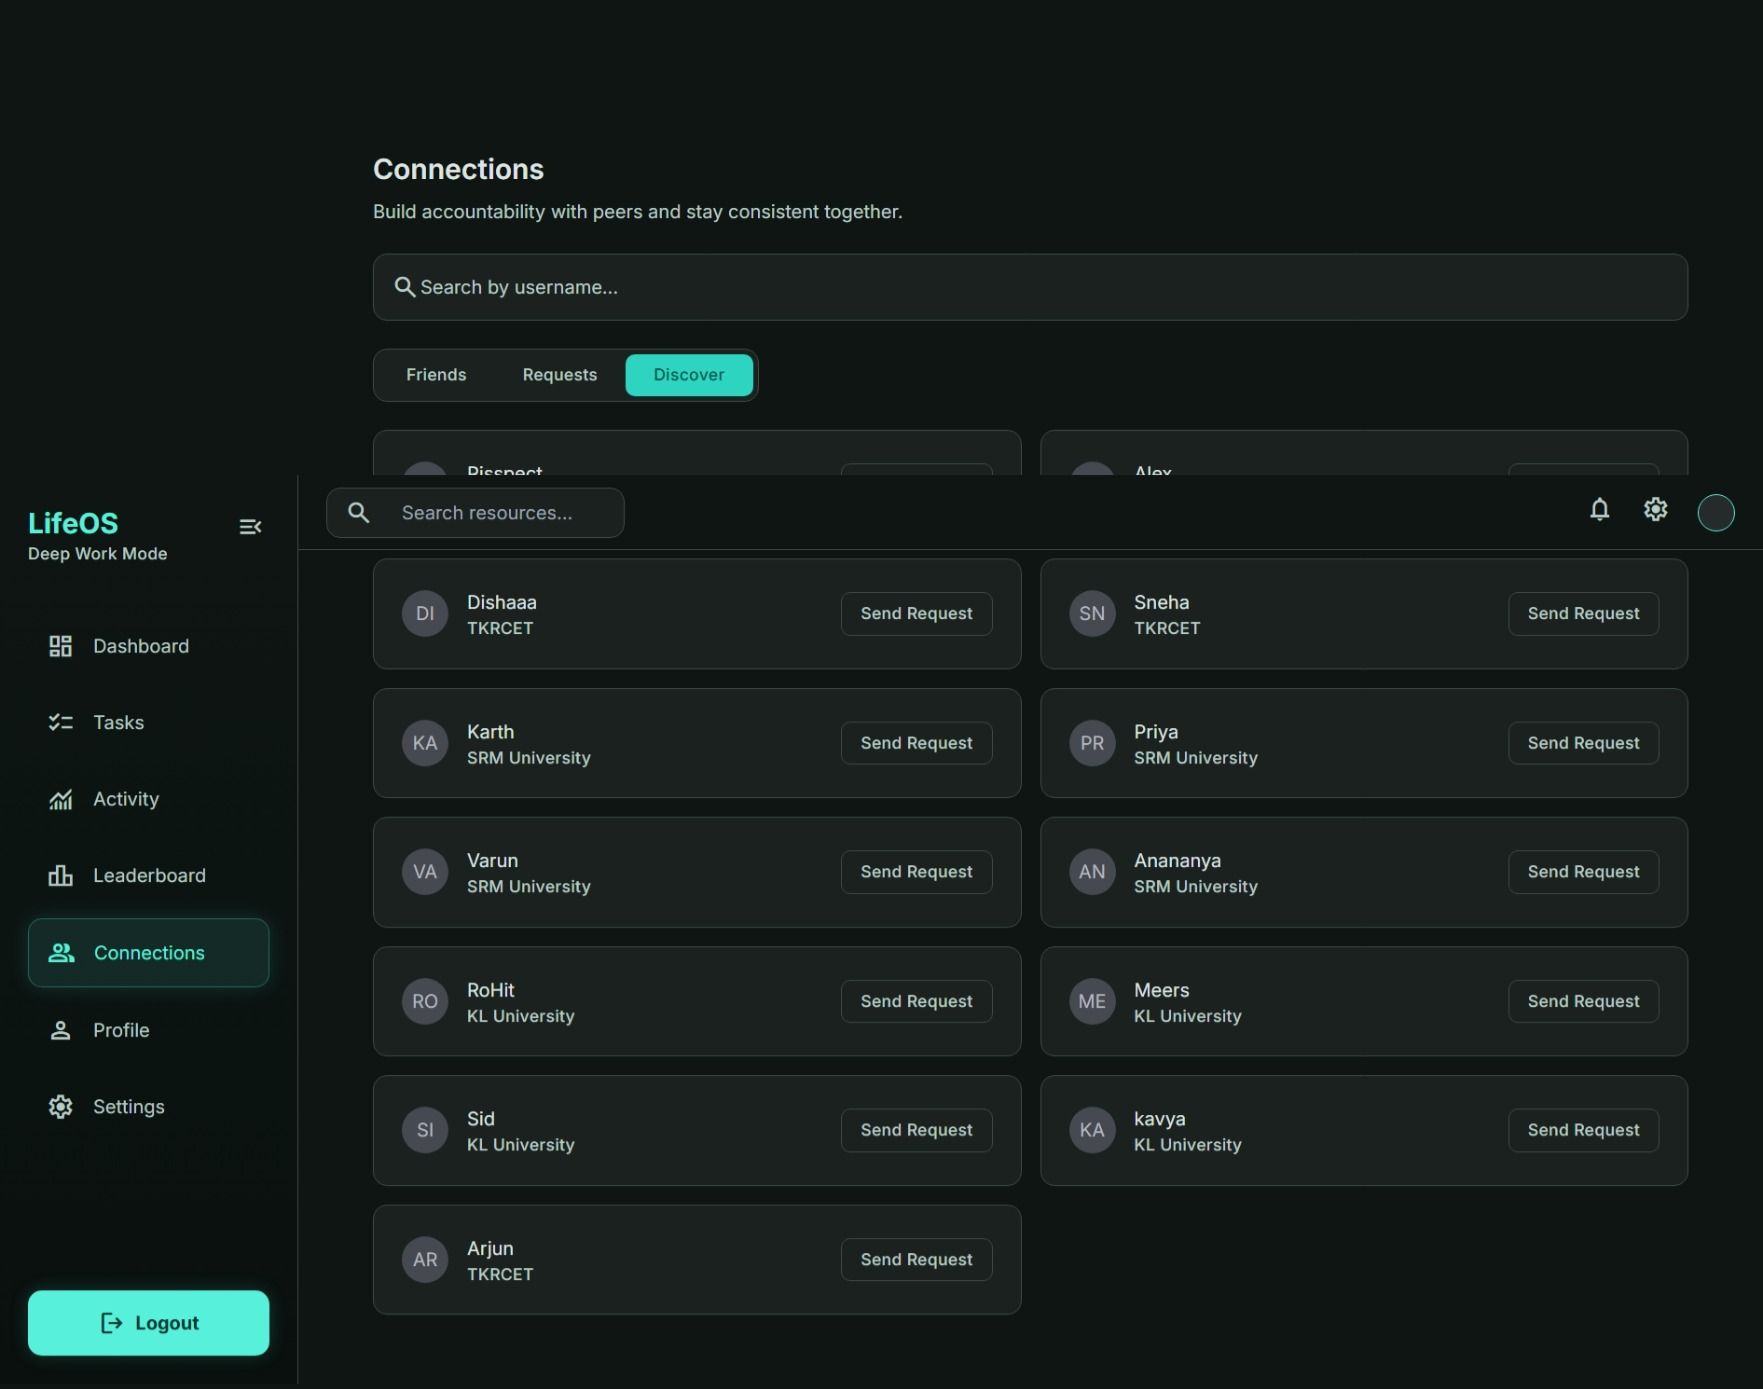
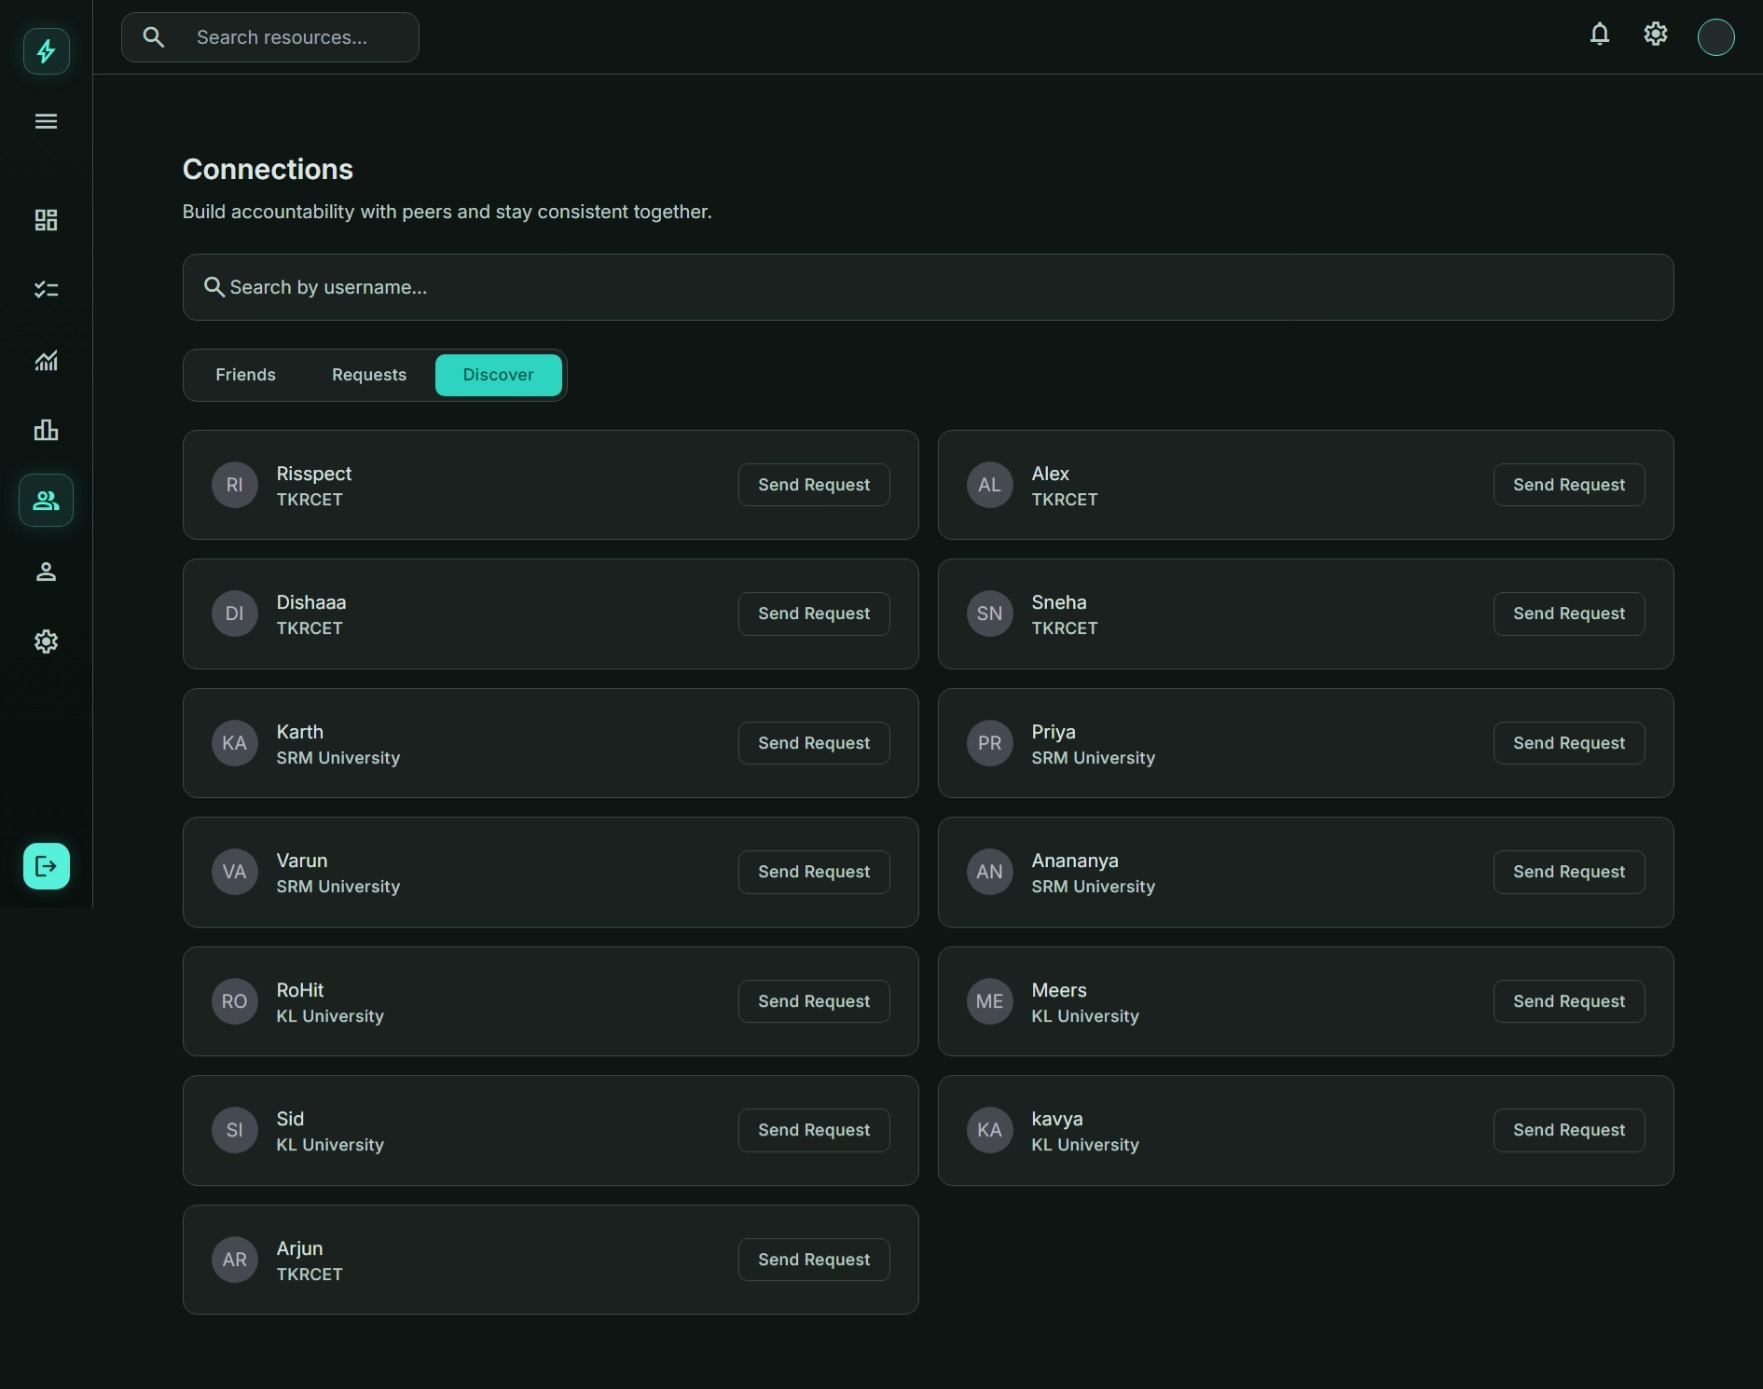
updated README.md

diff --git a/README.md b/README.md
@@ -150,7 +150,7 @@ Implemented capabilities:
 - aggregated response from a single endpoint
   <br />
 <p align="center">
-  <img src="Assets/profile_alex.jpeg" width="90%" />
+  <img src="Assets/profile_alex.jpeg" width="80%" />
 </p>
 
 ### 9) Connections and Social Accountability
@@ -222,7 +222,7 @@ Implemented capabilities:
 - activity timeline
 
 <p align="center">
-  <img src="Assets/activity.jpeg" width="90%" />
+  <img src="Assets/activity.jpeg" width="80%" />
 </p>
 ---
 